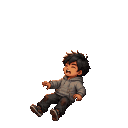
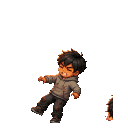
گام: برش دستهٔ ۴ (پارالکس جلو، دش/هک، علامتها، باس، رباتها، بولت) و یادآوری زاویهٔ دوربین
Claude-Session: https://claude.ai/code/session_01TYtLdDKpy9hWwSs3GHKfoa

Changed region(s): [[0.2188, 0.375, 0.7188, 0.9688], [0.8125, 0.75, 0.9062, 0.9688]]

diff --git a/art/tools/slice_ch1_v4.py b/art/tools/slice_ch1_v4.py
@@ -1,0 +1,52 @@
+#!/usr/bin/env python3
+"""برش دستهٔ ۴: پارالکس جلو، مرگ کایرو (ذرهٔ نارنجی)، علامتهای ایلارا، دش/هک/دیوارپرش کایرو، باس، رباتها، بولت.
+  python3 -I art/tools/slice_ch1_v4.py   (اصلها: art/raw/ch1_v4/)"""
+import json, os, sys
+sys.path.insert(0, os.path.dirname(__file__))
+import numpy as np
+from PIL import Image
+import slice_ch1_v1 as v1
+RAW = "art/raw/ch1_v4"
+def cut(sheet, rcuts, ccuts):
+    a = v1.key(f"{RAW}/{sheet}_full.png"); out = []; rowof = []
+    for r in range(len(rcuts) - 1):
+        for c in range(len(ccuts[r]) - 1):
+            out.append(Image.fromarray(np.ascontiguousarray(a[rcuts[r]:rcuts[r + 1], ccuts[r][c]:ccuts[r][c + 1]]), "RGBA")); rowof.append(r)
+    return out, rowof
+def even(n, total): return [round(i * total / n) for i in range(n + 1)]
+def char128(sheet, who, s, rcuts, ccuts, splits):
+    cells, rowof = cut(sheet, rcuts, ccuts); q = v1.quant([v1.scale(c, s) for c in cells], 64); bb = [x.getbbox() for x in q]; assert all(bb), sheet
+    ground = {r: max(b[3] for b, rr in zip(bb, rowof) if rr == r) for r in set(rowof)}
+    out = f"art_drop/{who}/home/anim"; os.makedirs(out, exist_ok=True); rep = {}
+    for name, idx in splits.items():
+        fr = []
+        for i in idx:
+            ci = q[i].crop(bb[i]); arr = np.array(ci)[..., 3] > 0; cx = int(np.average(np.nonzero(arr)[1]))
+            cv = Image.new("RGBA", (128, 128), (0, 0, 0, 0)); cv.paste(ci, (64 - cx, 124 - ground[rowof[i]] + bb[i][1]), ci); fr.append(cv)
+            if ci.width > 120 or ci.height > 124: rep.setdefault(name + "_oversize", []).append(list(ci.size))
+        for k, f in enumerate(fr): f.save(f"{out}/{name}_{k:02d}.png")
+        st = Image.new("RGBA", (128 * len(fr), 128)); [st.paste(f, (128 * k, 0)) for k, f in enumerate(fr)]; st.save(f"{out}/{name}_strip.png"); rep[name] = len(fr)
+    return rep
+def sheet_out(sheet, names, s, outd, rows, cols):
+    """کادر مشترک: همهٔ فریمها به یک پنجرهٔ ثابت (اجتماع محدودهٔ محتوا نسبت به سلول) بریده میشوند."""
+    cells, _ = cut(sheet, even(rows, 944), [even(cols, 1680)] * rows); q = v1.quant([v1.scale(c, s) for c in cells], 64)
+    bbs = [x.getbbox() for x in q]; assert all(bbs), sheet
+    x0 = min(b[0] for b in bbs); y0 = min(b[1] for b in bbs); x1 = max(b[2] for b in bbs); y1 = max(b[3] for b in bbs)
+    os.makedirs(outd, exist_ok=True); meta = {}
+    for im, n in zip(q, names): im.crop((x0, y0, x1, y1)).save(f"{outd}/{n}.png")
+    json.dump({"status": "draft-until-user-approval", "frame_size": [x1 - x0, y1 - y0], "scale": s, "frames": names}, open(f"{outd}/asset.json", "w"), indent=1, ensure_ascii=False)
+    return [x1 - x0, y1 - y0]
+def run():
+    rep = {}
+    os.makedirs("art_drop/parallax/ch1", exist_ok=True)
+    for n in ("house", "street", "basement"):
+        Image.fromarray(v1.key(f"{RAW}/parallax_fore_{n}_full.png"), "RGBA").resize((1280, 720), Image.LANCZOS).save(f"art_drop/parallax/ch1/{n}_fore_1280x720.png")
+    rep["kairo_death"] = char128("kairo_home_death_respawn2", "kairo", 0.1972, even(2, 944), [even(3, 1680)] * 2, {"death": list(range(6))})
+    rep["ilara_signals"] = char128("ilara_home_signals", "ilara", 0.2115, even(2, 944), [even(3, 1680)] * 2, {"signal_stay": [0, 1, 2], "signal_come": [3, 4, 5]})
+    rep["kairo_3x3"] = char128("kairo_home_dash_hack_walljump", "kairo", 0.1972 * 1.42, [0, 325, 603, 944], [[0, 620, 1120, 1680], [0, 660, 1030, 1680], [0, 620, 1040, 1680]], {"dash": [0, 1, 2], "hack": [3, 4, 5], "wall_jump": [6, 7, 8]})
+    rep["boss"] = sheet_out("boss_guardian", [f"phase_{i + 1}" for i in range(4)], 0.34, "art_drop/boss/guardian", 2, 2)
+    rep["robots"] = sheet_out("robots_nexa", ["guard_idle", "guard_step", "guard_scan", "crawler_0", "crawler_1", "suicide_explode"], 0.25, "art_drop/enemies/nexa", 2, 3)
+    rep["bolt_forms"] = sheet_out("bolt_forms", ["hover", "wheel", "spider", "bird", "transform_0", "transform_1"], 0.2, "art_drop/bolt/forms", 2, 3)
+    rep["bolt_emotions"] = sheet_out("bolt_emotions", ["happy", "curious", "scared", "sad", "angry", "hover_glow"], 0.2, "art_drop/bolt/emotions", 2, 3)
+    print(json.dumps(rep))
+if __name__ == "__main__": run()

diff --git a/art/PRODUCTION_LIST.md b/art/PRODUCTION_LIST.md
@@ -37,9 +37,6 @@
 - کنتراست رنگ: خطر نارنجی/قرمز، ایمن آبی/سفید، پاداش زرد؛ رنگ تاکیدی فصل ۱ = #FF8A3D.
 - فونت متن = عرفان (D-ART-03).
 
-## دستهٔ ۴ — ساختهشده در Canva، منتظر دانلود فولرز (لینک: https://www.canva.com/M/<id>)
-- پارالکس جلو: خانه MAHZ-gXYR8w · خیابان MAHZ-hA3Kg0 · زیرزمین MAHZ-ve6cd0
-- کایرو لباس خانگی دش/هک/دیوارپرش: MAHZ-kZuP9w
-- ایلارا لباس خانگی علامت بمان/بیا: MAHZ-jtduWc
-- بازسازی مرگ کایرو (ذرهٔ نارنجی): MAHZ-vuzTgs
-- هنوز نساخته: کاشی زیرزمین (MAHZ97PAVhI از دستهٔ ۲ نیامده)، کف برقی/در امنیتی/لیزر، کارگاه، جادهٔ پرتاب، اتاق خواب ایلارا
+## دستهٔ ۴ — دریافت و برش شد (`art/tools/slice_ch1_v4.py`، اصلها `art/raw/ch1_v4/`)
+☑ پارالکس جلو ×۳ → `art_drop/parallax/ch1/*_fore_1280x720.png` · ☑ مرگ کایرو (ذرهٔ نارنجی) · ☑ علامت بمان/بیا ایلارا · ☑ دش/هک/دیوارپرش کایرو → `art_drop/{kairo,ilara}/home/anim/` · ☑ باس غول نگهبان ۴ فاز → `art_drop/boss/guardian/` · ☑ رباتهای نکسا → `art_drop/enemies/nexa/` · ☑ بولت (احساس/شکلها) → `art_drop/bolt/`
+⚠ **زاویهٔ دوربین (یادآوری کاربر):** کل بازی سهچهارم از بالا ~۳۵° است. اینها نمای جانبی/روبهرو هستند و موقتاً فقط بهعنوان مرجع: باس، شکلهای بولت، پرش/دیوارپرش/دش جانبی. نسخهٔ سهچهارمازبالا برای باس و شکلهای بولت در Canva ساخته میشود؛ پرش/دش/دیوارپرش جانبی طبق تصمیم بعدی کاربر (در دوربین از بالا دیوارپرش معنا ندارد ⇒ اگر مشخصات تناقض دارد بپرس).
